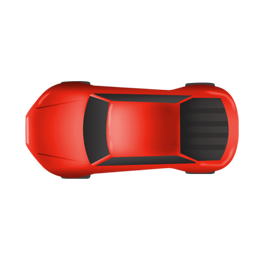
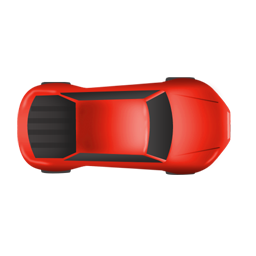
Vehicles have directions now

Changed region(s): [[0.0625, 0.2812, 0.9375, 0.7188]]

diff --git a/Crossit/src/Motorcycle.java b/Crossit/src/Motorcycle.java
@@ -4,7 +4,10 @@ public class Motorcycle extends Vehicle
 	protected Motorcycle(int direction)
 	{
 		super(direction);
-		super.setImage("car.png"); //addr of motor png
+		if(direction == 0)
+			super.setImage("motorcycle1.png"); //addr of car png
+		else
+			super.setImage("motorcycle0.png"); //addr of car png
 	}
 	protected void print()
 	{

diff --git a/Crossit/src/Car.java b/Crossit/src/Car.java
@@ -4,7 +4,10 @@ public class Car extends Vehicle
 	protected Car(int direction)
 	{
 		super(direction);
-		super.setImage("car.png"); //addr of car png
+		if(direction == 0)
+			super.setImage("car0.png"); //addr of car png
+		else
+			super.setImage("car1.png"); //addr of car png
 	}
 	protected void print()
 	{
